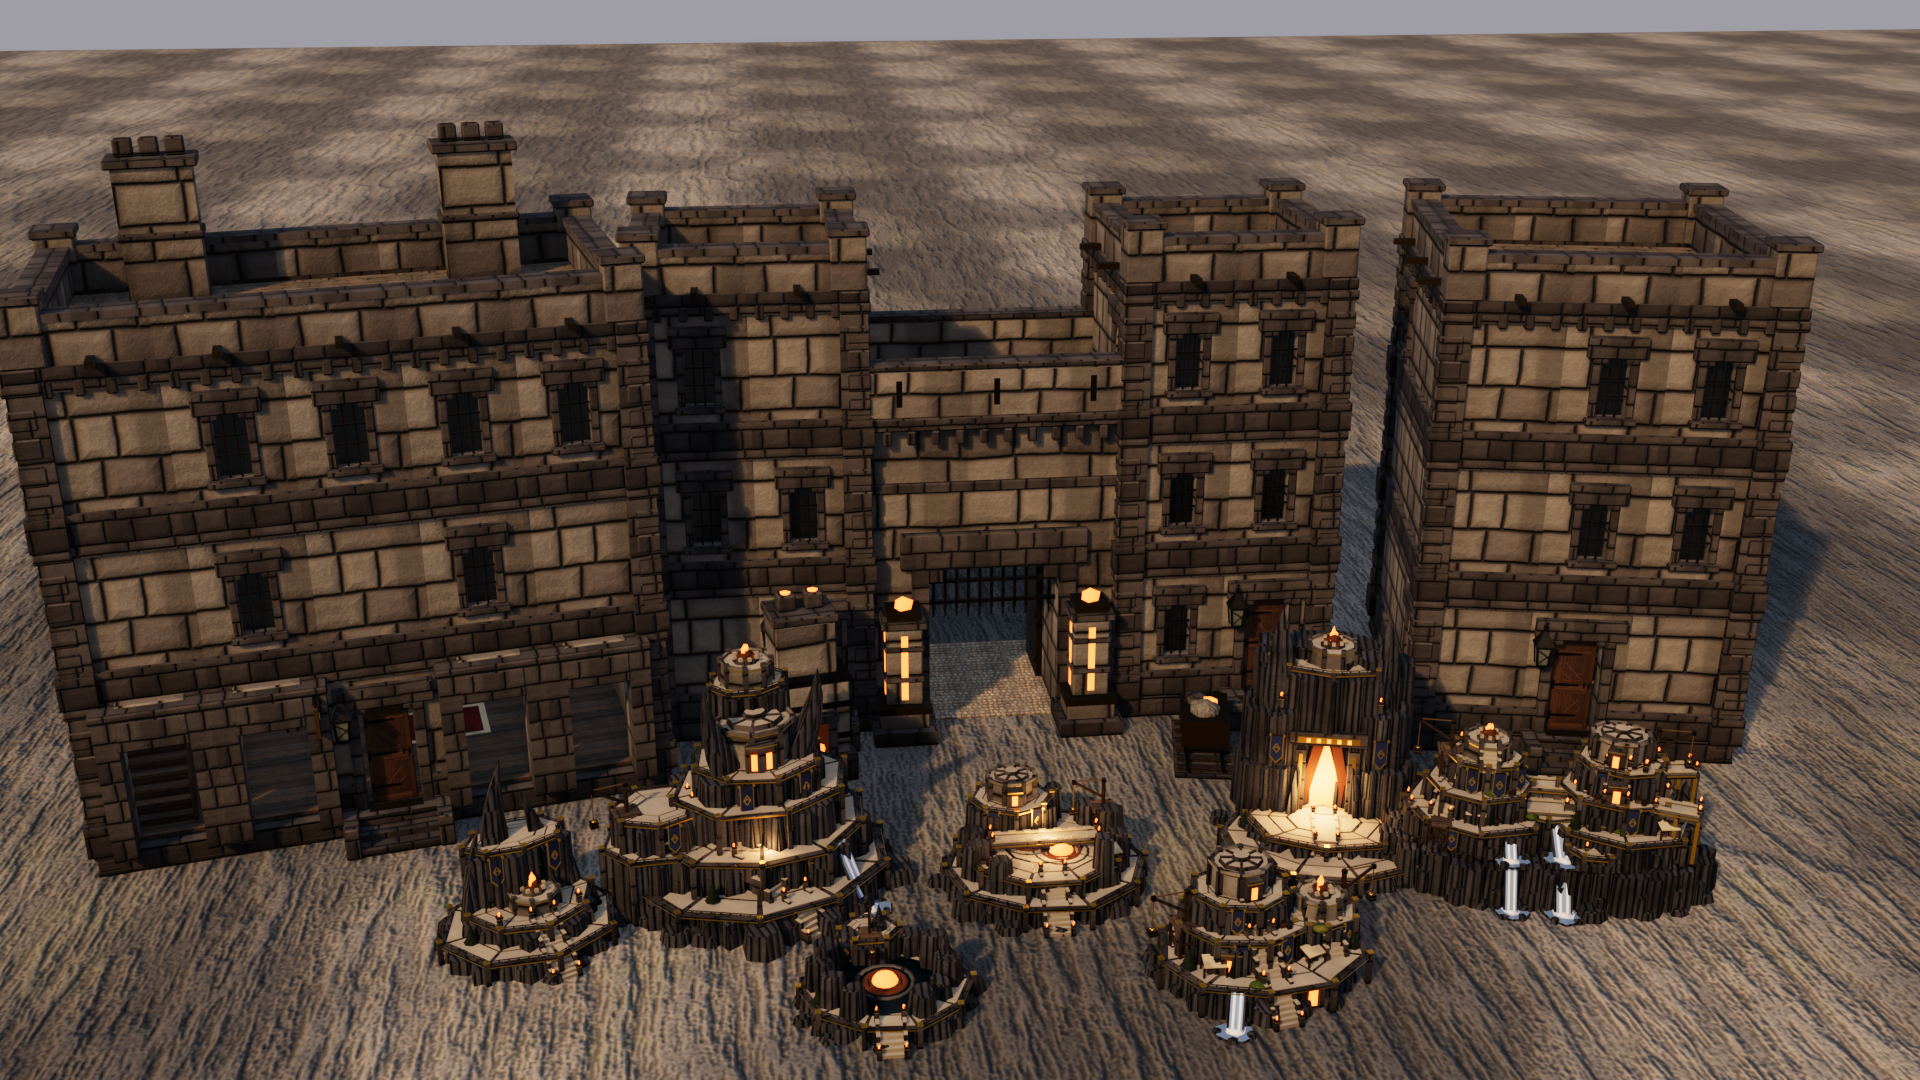
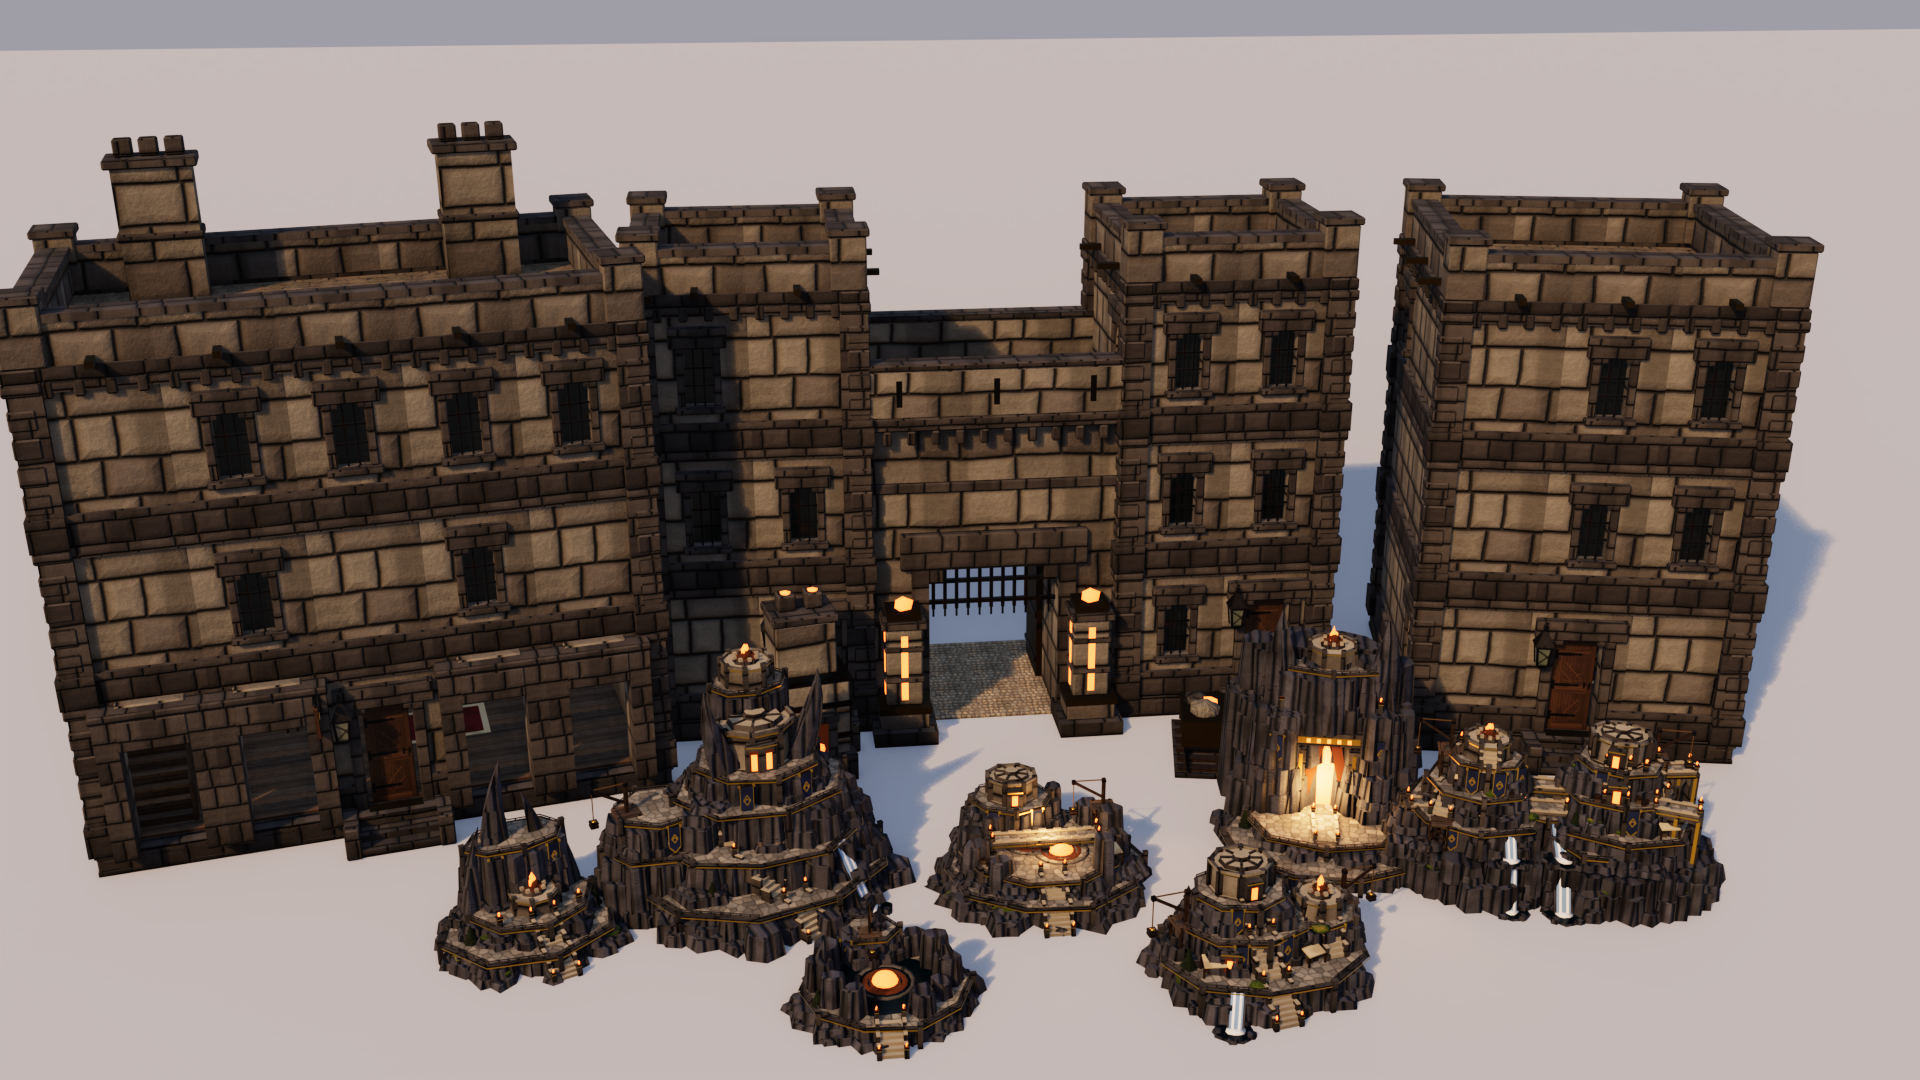
feat(towns): fractured basalt crags and flagstone decks for Stonehold
- Cliff ribs break into 1-3 stacked, offset blocks that flare toward the
  foot, with moss on the ledges, so faces read as fractured crag instead
  of a palisade of posts; the basalt texture is down to 7 soft columns.
- Terrace decks pave with a new flagstone texture (stone_flag) instead of
  plain dressed trapezoids; viaduct roadways use it too.
- Corner posts only on every other corner, with dark caps.
- Waterfall pools are dark water instead of stacked foam stars.
- Stonehold preview stage sits on a pale valley haze rather than a
  moiréd brown floor that warmed the cliffs with bounce light.

diff --git a/tools/blender/medieval_town_kit/medkit/modules/stonehold_parts.py b/tools/blender/medieval_town_kit/medkit/modules/stonehold_parts.py
@@ -143,35 +143,35 @@ def jagged_cliff_tier(b, cx, cy, z0, z1, rx, ry, seed=1, ribs=20,
             dist = rng.uniform(0.80, 0.98)
         bx = cx + rx * dist * math.cos(a)
         by = cy + ry * dist * math.sin(a)
-        rib_w = (2 * math.pi * max(rx, ry) / n_ribs) * rng.uniform(0.54, 0.78)
+        rib_w = (2 * math.pi * max(rx, ry) / n_ribs) * rng.uniform(0.48, 0.92)
         rib_d = rib_w * rng.uniform(0.72, 1.08)
         if under_terrace:
             rib_z1 = z1 - rng.uniform(0.060, 0.100)
-            tx, ty = 0.0, 0.0
         else:
             rib_z1 = z1 - rng.uniform(0.01, 0.14 * (z1 - z0))
-            tx = -0.12 * math.cos(a)
-            ty = -0.12 * math.sin(a)
         tone_choice = rng.uniform(0.68, 0.98)
-        crag_block(b, bx, by, z0, rib_z1, rib_w, rib_d,
-                   seed=seed * 17 + i, sides=5 if i % 2 == 0 else 6,
-                   mat='rock_cliff', cap_mat='rock_cliff',
-                   batter=rng.uniform(0.84, 0.93), chamfer=0.0,
-                   tilt_x=tx, tilt_y=ty,
-                   rot=a + rng.uniform(-0.22, 0.22), tone=tone_choice)
-        # Secondary stepped crag shoulder halfway up the cliff (skip in stair openings)
-        if detailed() and not in_open and i % 2 == 0 and (z1 - z0) > 0.32:
-            s_dist = dist + (0.05 if under_terrace else 0.09)
-            lx = cx + rx * s_dist * math.cos(a)
-            ly = cy + ry * s_dist * math.sin(a)
-            lz1 = z0 + (z1 - z0) * rng.uniform(0.38, 0.64)
-            crag_block(b, lx, ly, z0, lz1, rib_w * 0.80, rib_d * 0.78,
-                       seed=seed * 31 + i, sides=5,
+        # Break each column into 1-3 stacked blocks, wider and further out toward the foot,
+        # so the face reads as fractured crag with ledges rather than a palisade of posts.
+        n_seg = 1 if in_open or not detailed() or (rib_z1 - z0) < 0.26 else rng.choice((2, 2, 3))
+        cuts = sorted(rng.uniform(0.25, 0.8) for _ in range(n_seg - 1))
+        bounds = [z0] + [z0 + (rib_z1 - z0) * c for c in cuts] + [rib_z1]
+        for k in range(n_seg):
+            below = n_seg - 1 - k
+            seg_dist = dist + below * rng.uniform(0.02, 0.05)
+            grow = 1.0 + below * rng.uniform(0.10, 0.28)
+            top_seg = k == n_seg - 1
+            tilt = 0.0 if (under_terrace and top_seg) else rng.uniform(-0.07, 0.07)
+            crag_block(b, cx + rx * seg_dist * math.cos(a), cy + ry * seg_dist * math.sin(a),
+                       bounds[k], bounds[k + 1], rib_w * grow, rib_d * grow,
+                       seed=seed * 17 + i * 5 + k, sides=5 if (i + k) % 2 == 0 else 6,
                        mat='rock_cliff', cap_mat='rock_cliff',
-                       batter=0.84, chamfer=0.0,
-                       tilt_x=0.0 if under_terrace else -0.10 * math.cos(a),
-                       tilt_y=0.0 if under_terrace else -0.10 * math.sin(a),
-                       rot=a, tone=tone_choice * 0.88)
+                       batter=rng.uniform(0.82, 0.93), chamfer=0.0 if top_seg else 0.014,
+                       tilt_x=tilt * math.cos(a), tilt_y=tilt * math.sin(a),
+                       rot=a + rng.uniform(-0.3, 0.3), tone=tone_choice * rng.uniform(0.9, 1.06))
+            if not top_seg and rng.random() < 0.22:
+                moss_tuft(b, cx + rx * (seg_dist + 0.02) * math.cos(a),
+                          cy + ry * (seg_dist + 0.02) * math.sin(a), bounds[k + 1],
+                          radius=rib_w * 0.55, seed=seed * 7 + i)
 
 
 def _angle_in_ranges(ang, open_angles):
@@ -217,33 +217,11 @@ def dwarven_terrace_deck(b, cx, cy, z0, z_deck, rx, ry, seed=1, sides=8,
         g_top = ring_pts(cx, cy, z_deck - 0.018, rx * 1.025, ry * 1.025, angles, radii)
         loft_rings(b, g_bot, g_top, 'gold', cap_bot=False, cap_top=False, tone=0.88)
 
-    # 2. Sunlit paved flagstone slab courses across the terrace deck
-    if detailed():
-        inner_r = [r * 0.50 for r in radii]
-        center_pts = ring_pts(cx, cy, z_deck + 0.016, rx * 0.46, ry * 0.46, angles, radii)
-        center_bot = ring_pts(cx, cy, z_deck - 0.005, rx * 0.46, ry * 0.46, angles, radii)
-        loft_rings(b, center_bot, center_pts, 'stone_dressed',
-                   cap_bot=False, cap_top=True, cap_mat='stone_dressed', tone=0.96)
-        for i in range(sides):
-            j = (i + 1) % sides
-            a0, a1 = angles[i] + 0.025, angles[j] - 0.025
-            r_mid0, r_mid1 = radii[i] * 0.72, radii[j] * 0.72
-            r_out0, r_out1 = radii[i] * 0.94, radii[j] * 0.94
-            ri0, ri1 = inner_r[i], inner_r[j]
-            for ra0, rb0, ra1, rb1, t_off in (
-                (ri0, r_mid0 - 0.02, ri1, r_mid1 - 0.02, 0.0),
-                (r_mid0 + 0.01, r_out0, r_mid1 + 0.01, r_out1, 0.04),
-            ):
-                slab_bot = [
-                    Vector((cx + rx * ra0 * math.cos(a0), cy + ry * ra0 * math.sin(a0), z_deck - 0.005)),
-                    Vector((cx + rx * rb0 * math.cos(a0), cy + ry * rb0 * math.sin(a0), z_deck - 0.005)),
-                    Vector((cx + rx * rb1 * math.cos(a1), cy + ry * rb1 * math.sin(a1), z_deck - 0.005)),
-                    Vector((cx + rx * ra1 * math.cos(a1), cy + ry * ra1 * math.sin(a1), z_deck - 0.005)),
-                ]
-                slab_top = [Vector((p.x, p.y, z_deck + 0.015)) for p in slab_bot]
-                loft_rings(b, slab_bot, slab_top, 'stone_dressed',
-                           cap_bot=False, cap_top=True, cap_mat='stone_dressed',
-                           tone=0.90 + 0.05 * ((i + (1 if t_off else 0)) % 3))
+    # 2. One flagstone paving course over the whole deck (the texture draws the slabs)
+    pave_bot = ring_pts(cx, cy, z_deck - 0.005, rx * 0.96, ry * 0.96, angles, radii)
+    pave_top = ring_pts(cx, cy, z_deck + 0.012, rx * 0.96, ry * 0.96, angles, radii)
+    loft_rings(b, pave_bot, pave_top, 'stone_flag', cap_bot=False, cap_top=True,
+               cap_mat='stone_flag', tone=0.96)
 
     # 3. Sleek perimeter crenellated parapet curbs & slender vertical cliff pilaster buttresses
     rim_pts = ring_pts(cx, cy, z_deck, rx * 0.97, ry * 0.97, angles, radii)
@@ -253,14 +231,14 @@ def dwarven_terrace_deck(b, cx, cy, z0, z_deck, rx, ry, seed=1, sides=8,
         p1 = rim_pts[j]
         c0 = cornice_top[i]
         # Slender vertical corner pilaster buttress descending down the cliff face
-        if buttresses and (detailed() or i % 2 == 0):
+        if buttresses and i % 2 == 0:
             ang_v = angles[i]
             vx, vy = c0.x, c0.y
             bw = 0.042
             z_butt_bot = max(0.0, z0)
             b.box((vx - bw, vy - bw, z_butt_bot), (vx + bw, vy + bw, z_deck + 0.085), 'stone_basalt', bevel=0)
             b.box((vx - bw * 1.15, vy - bw * 1.15, z_deck + 0.075),
-                  (vx + bw * 1.15, vy + bw * 1.15, z_deck + 0.095), 'gold', bevel=0)
+                  (vx + bw * 1.15, vy + bw * 1.15, z_deck + 0.095), 'stone_basalt', bevel=0)
             if detailed() and gold_trim and (z_deck - z_butt_bot) > 0.22:
                 gx = vx + math.cos(ang_v) * (bw * 0.55)
                 gy = vy + math.sin(ang_v) * (bw * 0.55)
@@ -396,7 +374,7 @@ def viaduct_bridge(b, p0_xy, p1_xy, z_deck, z_ground=0.0, width=0.52,
     b.beam((p0.x, p0.y, z_deck), (p1.x, p1.y, z_deck),
            (0, 0, 1), (-0.09, 0.0), width, 'stone_basalt', bevel=0)
     b.beam((p0.x, p0.y, z_deck), (p1.x, p1.y, z_deck),
-           (0, 0, 1), (-0.002, 0.018), width * 0.88, 'stone_dressed', bevel=0)
+           (0, 0, 1), (-0.002, 0.018), width * 0.88, 'stone_flag', bevel=0)
     if detailed():
         b.beam((p0.x, p0.y, z_deck), (p1.x, p1.y, z_deck),
                (0, 0, 1), (-0.052, -0.026), width * 1.04, 'gold', bevel=0)
@@ -856,11 +834,8 @@ def waterfall_cascade(b, p_top, p_bot, width=0.26, seed=1):
 
     # Splash pool & wet boulders at base
     crag_block(b, p1.x, p1.y, 0.0, 0.038, width * 1.45, width * 1.25,
-               seed=seed + 80, sides=8, mat='rock_cliff', cap_mat='ice',
+               seed=seed + 80, sides=8, mat='rock_cliff', cap_mat='water',
                batter=0.95, chamfer=0.0, tone=0.72)
-    crag_block(b, p1.x, p1.y, 0.005, 0.048, width * 0.82, width * 0.72,
-               seed=seed + 84, sides=7, mat='ice', cap_mat='snow',
-               batter=0.90, chamfer=0.0, tone=0.95)
     if detailed():
         b.blob((p1.x, p1.y, 0.040), width * 0.50, 'snow',
                subdiv=1, squash=(1.4, 1.4, 0.18), jitter=0.25, seed=seed + 88)

diff --git a/tools/blender/medieval_town_kit/medkit/texture_patterns_regional.py b/tools/blender/medieval_town_kit/medkit/texture_patterns_regional.py
@@ -107,22 +107,52 @@ def basalt(n, seed):
     """Stonehold cliff basalt: charcoal columns split by deep vertical joints (sy = along v,
     which runs up a cliff face), a few horizontal shears and pale weathered column faces."""
     big, fine = fbm(n, seed, 2.4), fbm(n, seed + 1, 0.8)
-    # Axis 1 is u (across the face): 12 columns, edges wobbled by tall low-frequency noise.
+    # Axis 1 is u (across the face): 7 columns, edges wobbled by tall low-frequency noise.
     u = np.tile(np.arange(n, dtype=np.float32) / n, (n, 1))
-    cell = (u + (fbm(n, seed + 2, 2.6, sy=6.0) - 0.5) * 0.05) * 12.0
+    cell = (u + (fbm(n, seed + 2, 2.6, sy=6.0) - 0.5) * 0.09) * 7.0
     frac = cell - np.floor(cell)
     edge = np.minimum(frac, 1.0 - frac)
-    joints = smooth(0.07, 0.0, edge)
-    col_tone = np.asarray(np.random.default_rng(seed).uniform(0.78, 1.18, 12), np.float32)[
-        np.floor(cell).astype(int) % 12]
+    joints = smooth(0.045, 0.0, edge) * (0.55 + 0.45 * smooth(0.3, 0.7, fbm(n, seed + 5, 2.0, sy=4.0)))
+    col_tone = np.asarray(np.random.default_rng(seed).uniform(0.82, 1.14, 7), np.float32)[
+        np.floor(cell).astype(int) % 7]
     shear = smooth(0.025, 0.0, np.abs(fbm(n, seed + 4, 1.6, sx=7.0, sy=1.0) - 0.5)) * smooth(0.55, 0.75, big)
     face = smooth(0.0, 0.3, edge)
-    albedo = lerp((0.12, 0.13, 0.16), (0.27, 0.28, 0.31), smooth(0.2, 0.9, 0.4 * face + 0.6 * big))
-    albedo = tint(albedo, col_tone * (0.88 + 0.22 * fine) * (1 - 0.75 * joints) * (1 - 0.5 * shear))
+    albedo = lerp((0.15, 0.16, 0.20), (0.33, 0.34, 0.39), smooth(0.2, 0.9, 0.4 * face + 0.6 * big))
+    albedo = tint(albedo, col_tone * (0.88 + 0.22 * fine) * (1 - 0.55 * joints) * (1 - 0.5 * shear))
     height = 0.6 * face + 0.15 * big + 0.12 * fine - 0.8 * joints - 0.35 * shear
     return _weather(albedo, n, seed, 0.16), height.astype(np.float32), 3.0
 
 
+def flagstone(n, seed):
+    """Stonehold terrace paving: big flat irregular slabs (Voronoi, no dome) with thin dark
+    joints, pale warm-grey tones and worn edges."""
+    rng = np.random.default_rng(seed)
+    k = 7
+    gy, gx = np.mgrid[0:k, 0:k]
+    px = ((gx + 0.5 + rng.uniform(-0.4, 0.4, (k, k))) / k).ravel()
+    py = ((gy + 0.5 + rng.uniform(-0.4, 0.4, (k, k))) / k).ravel()
+    v, u = (np.mgrid[0:n, 0:n].astype(np.float32) + 0.5) / n
+    f1 = np.full((n, n), 9.0, np.float32)
+    f2 = np.full((n, n), 9.0, np.float32)
+    idx = np.zeros((n, n), np.int32)
+    for i in range(k * k):
+        ddx, ddy = np.abs(u - px[i]), np.abs(v - py[i])
+        d = np.sqrt(np.minimum(ddx, 1 - ddx) ** 2 + np.minimum(ddy, 1 - ddy) ** 2)
+        closer = d < f1
+        f2 = np.where(closer, f1, np.minimum(f2, d))
+        idx = np.where(closer, i, idx)
+        f1 = np.where(closer, d, f1)
+    fine, mid = fbm(n, seed + 1, 1.0), fbm(n, seed + 2, 2.0)
+    gap = (f2 - f1) * k
+    face = smooth(0.012, 0.05, gap)
+    tones = rng.uniform(0.82, 1.12, k * k)[idx]
+    col = lerp((0.50, 0.49, 0.47), (0.62, 0.58, 0.52), rng.uniform(0, 1, k * k)[idx])
+    col = tint(col, tones * (0.82 + 0.28 * fine) * (0.9 + 0.1 * mid) * (0.86 + 0.14 * smooth(0.05, 0.3, gap)))
+    albedo = lerp(tint((0.30, 0.29, 0.27), 0.8 + 0.4 * fine), col, face)
+    height = face * (0.85 + 0.15 * smooth(0.05, 0.3, gap)) + 0.08 * fine
+    return albedo.astype(np.float32), height.astype(np.float32), 2.0
+
+
 REGIONAL_PATTERNS = {'granite': (granite, 1024), 'sod': (sod, 512), 'earth': (earth, 1024),
                      'rock': (rock, 1024), 'snow': (snow, 512), 'snow_path': (snow_path, 1024),
-                     'basalt': (basalt, 1024)}
+                     'basalt': (basalt, 1024), 'flagstone': (flagstone, 1024)}

diff --git a/tools/blender/medieval_town_kit/city_street_harness.py b/tools/blender/medieval_town_kit/city_street_harness.py
@@ -301,7 +301,14 @@ def main():
     # ==========================================================================
     if "stonehold" in modes:
         stage_floor.hide_render = False
-        stage_floor_mesh.materials[0] = materials.get('rock_land')
+        # Pale valley haze under the cliffs, as in the Stonehold concept art (a textured
+        # floor moirés at this distance and warms the cliffs with bounce light).
+        haze_mat = bpy.data.materials.new('HarnessHazeMat')
+        haze_mat.use_nodes = True
+        hbsdf = next(n for n in haze_mat.node_tree.nodes if n.type == 'BSDF_PRINCIPLED')
+        hbsdf.inputs['Base Color'].default_value = (0.50, 0.53, 0.58, 1.0)
+        hbsdf.inputs['Roughness'].default_value = 1.0
+        stage_floor_mesh.materials[0] = haze_mat
         # Set warm golden-hour mountain sun from front-left (35 deg elevation, 218 deg azimuth)
         # and cool alpine skylight so horizontal flagstone terraces and dark cliffs read clearly
         sun_ob = bpy.data.objects.get('Sun')

diff --git a/tools/blender/medieval_town_kit/medkit/materials.py b/tools/blender/medieval_town_kit/medkit/materials.py
@@ -102,6 +102,7 @@ SPEC = {
     'rock_land': Spec('rock', 17.0, 0.92, normal=1.6),
     # Stonehold columnar cliff basalt, dark so the pale terrace decks read above it.
     'rock_cliff': Spec('basalt', 1.6, 0.86, normal=2.6),
+    'stone_flag': Spec('flagstone', 1.1, 0.82, normal=1.4),
     'foliage_pine': Spec('foliage', 1.5, 0.9, tint=(0.52, 0.66, 0.60)),
     # Plain blown glass for frontier and hold windows (the lattice pane is a lowland look).
     'glass_clear': Spec(color=(0.11, 0.12, 0.12), rough=0.1, emission=0.35, glow_tint=(1.0, 0.62, 0.30)),
